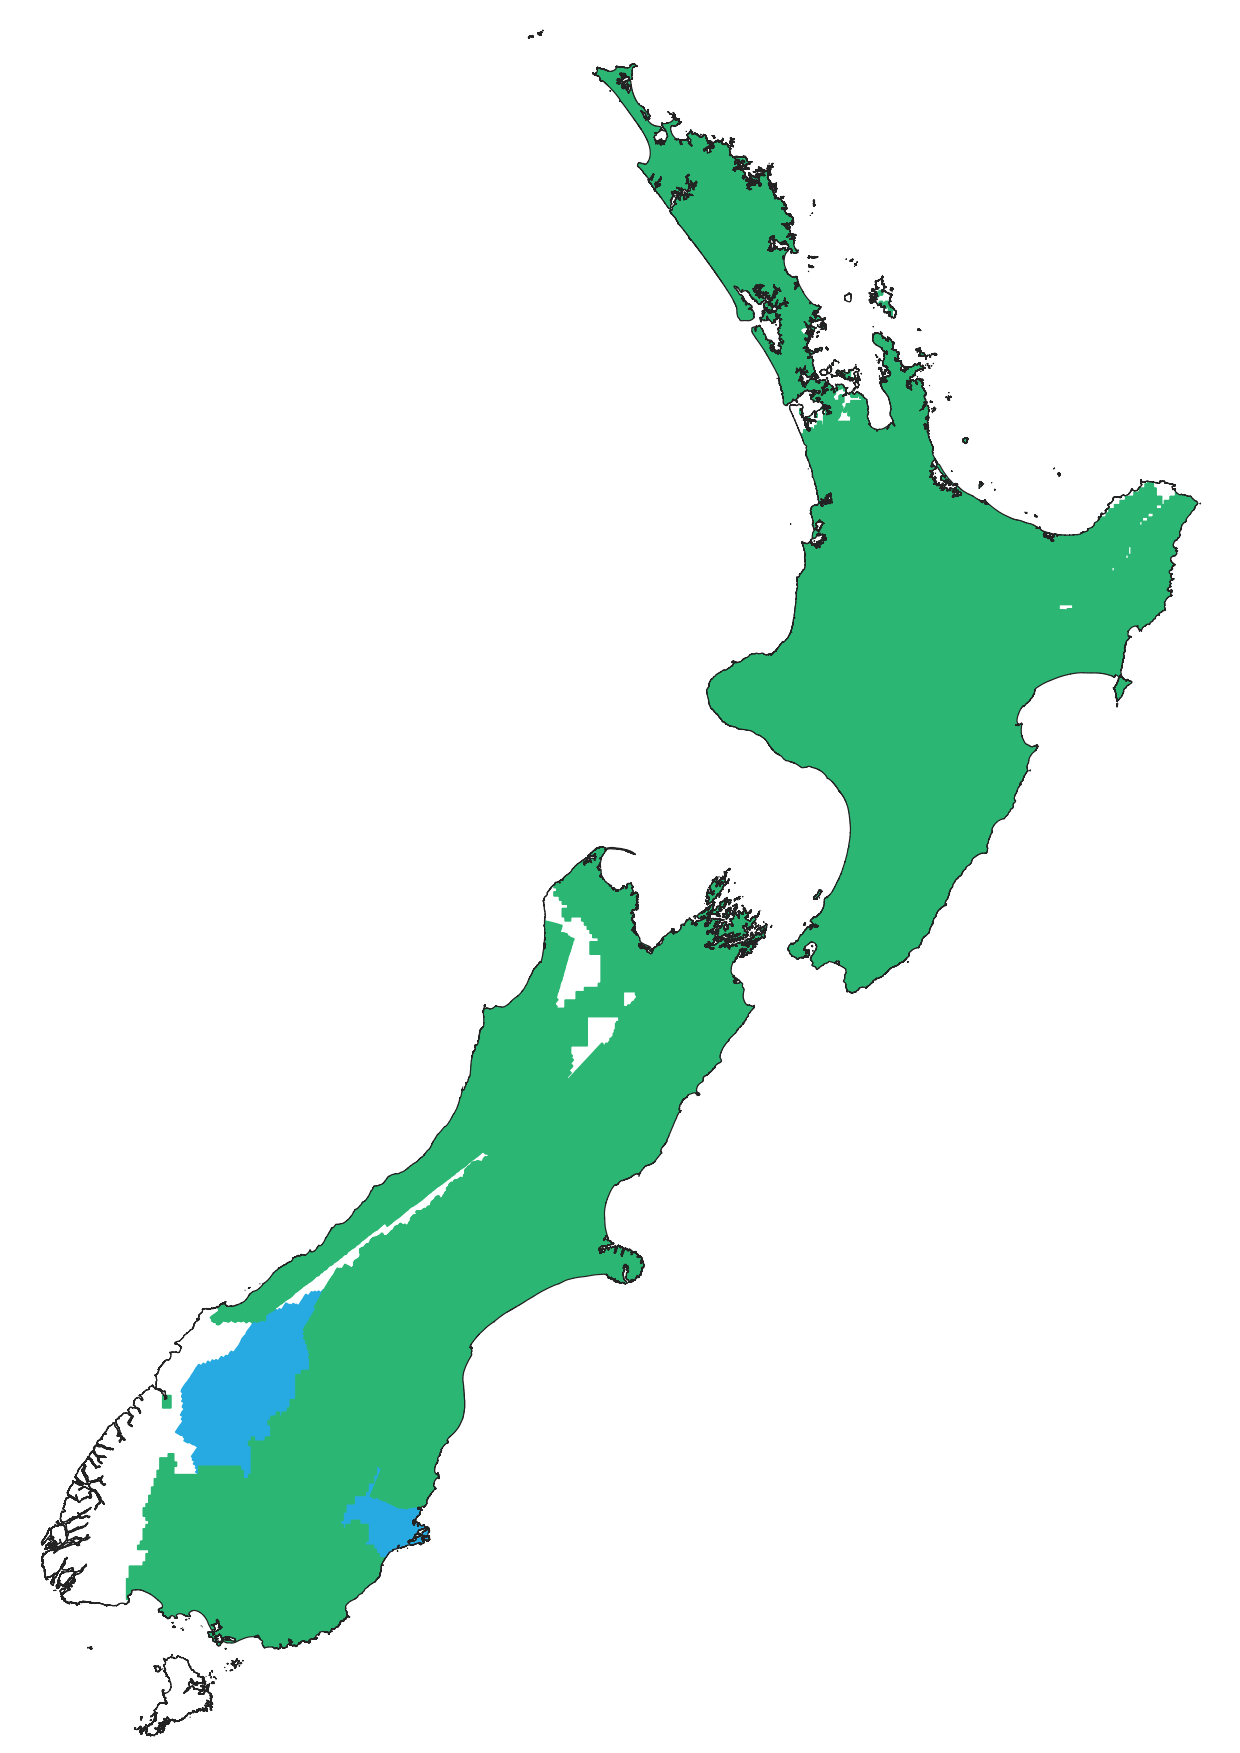
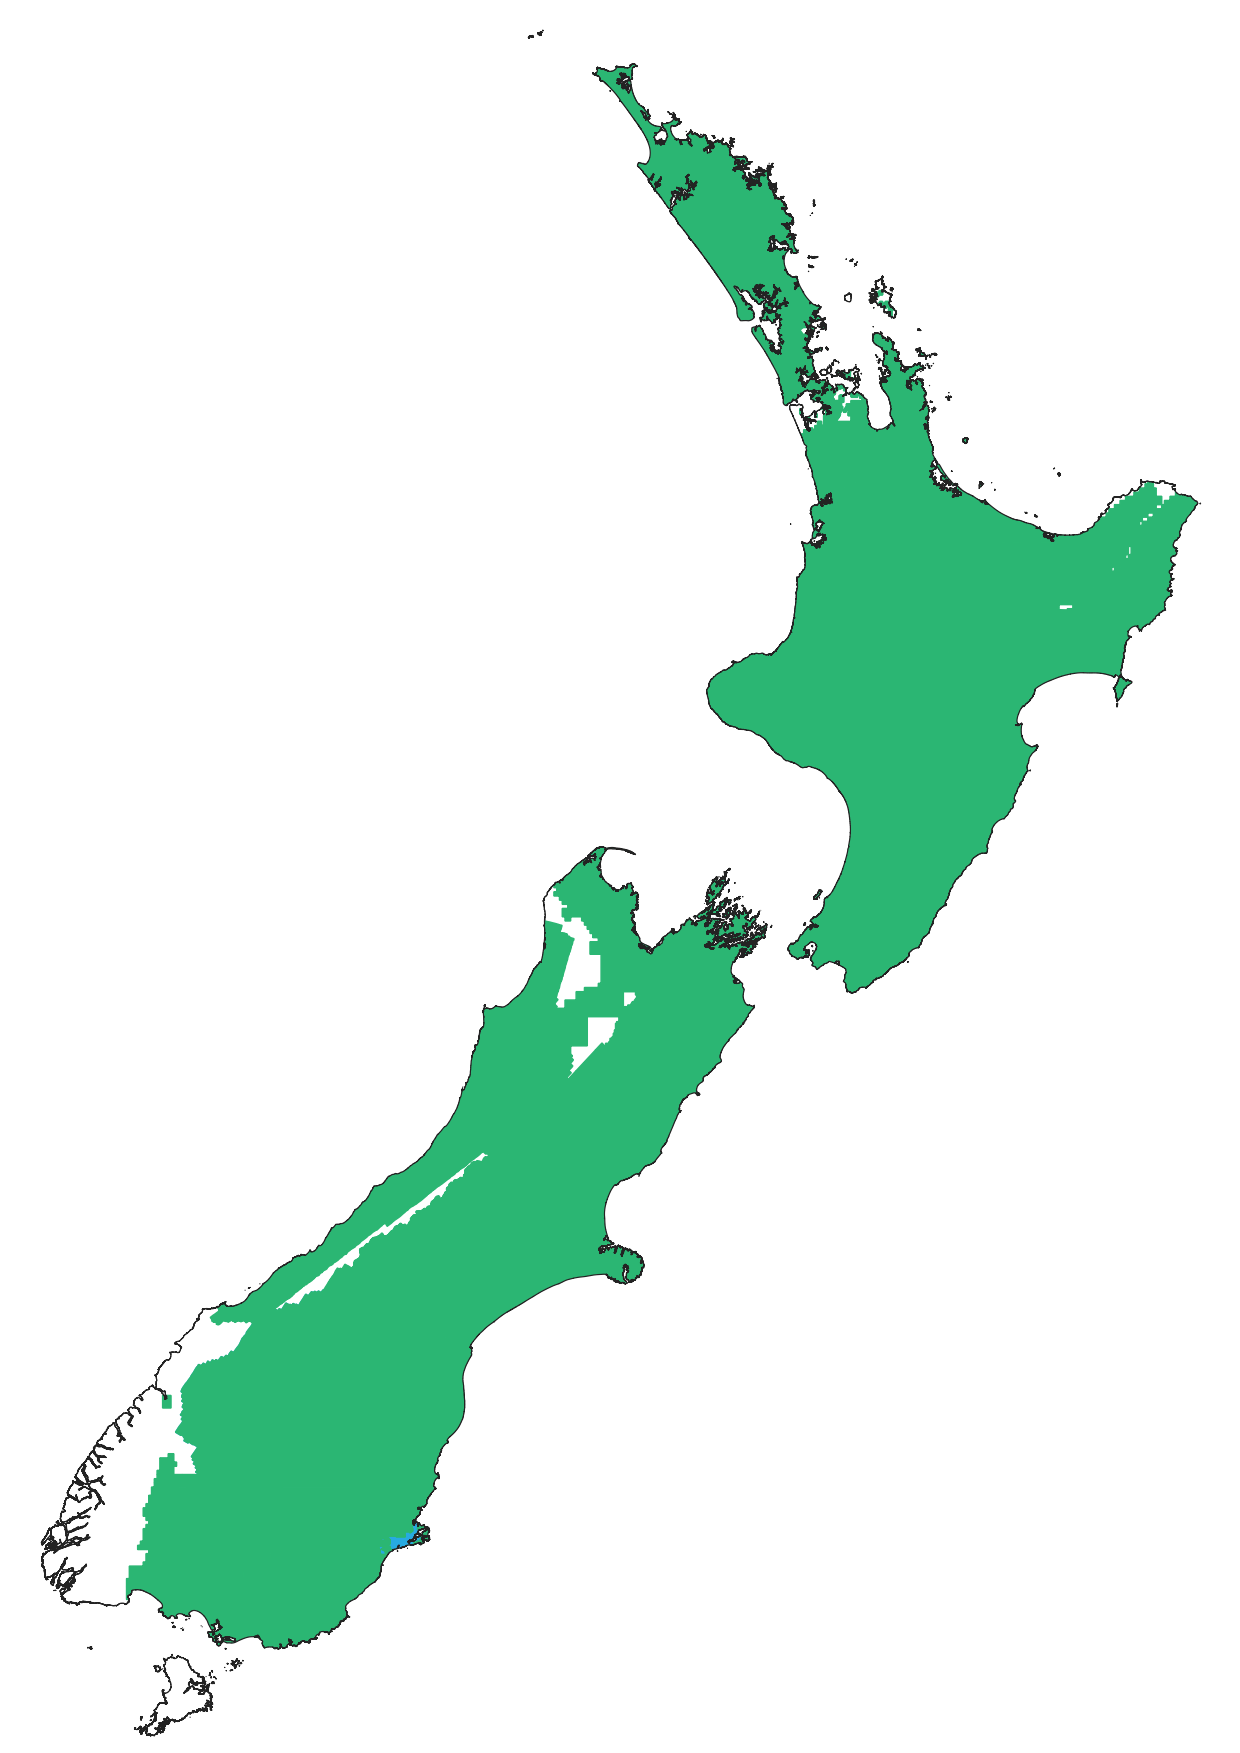
docs: updated Data Dictionary coverage images
docs: changelog updated

Changed region(s): [[0.1226, 0.7393, 0.2758, 0.8625], [0.2758, 0.8317, 0.3371, 0.8933]]

diff --git a/CHANGELOG.rst b/CHANGELOG.rst
@@ -20,7 +20,7 @@ Fixed
 Changed
 -------
 * Some symbology changed to enable the removal of QgsHighlight due to bugs
-* Data Dictionary and Metadata updated to reflect additional Tasman and Nelson building outlines updates.
+* Data Dictionary and Metadata updated to reflect additional Tasman, Nelson and Otago building outlines updates.
 
 3.4.0
 ==========
